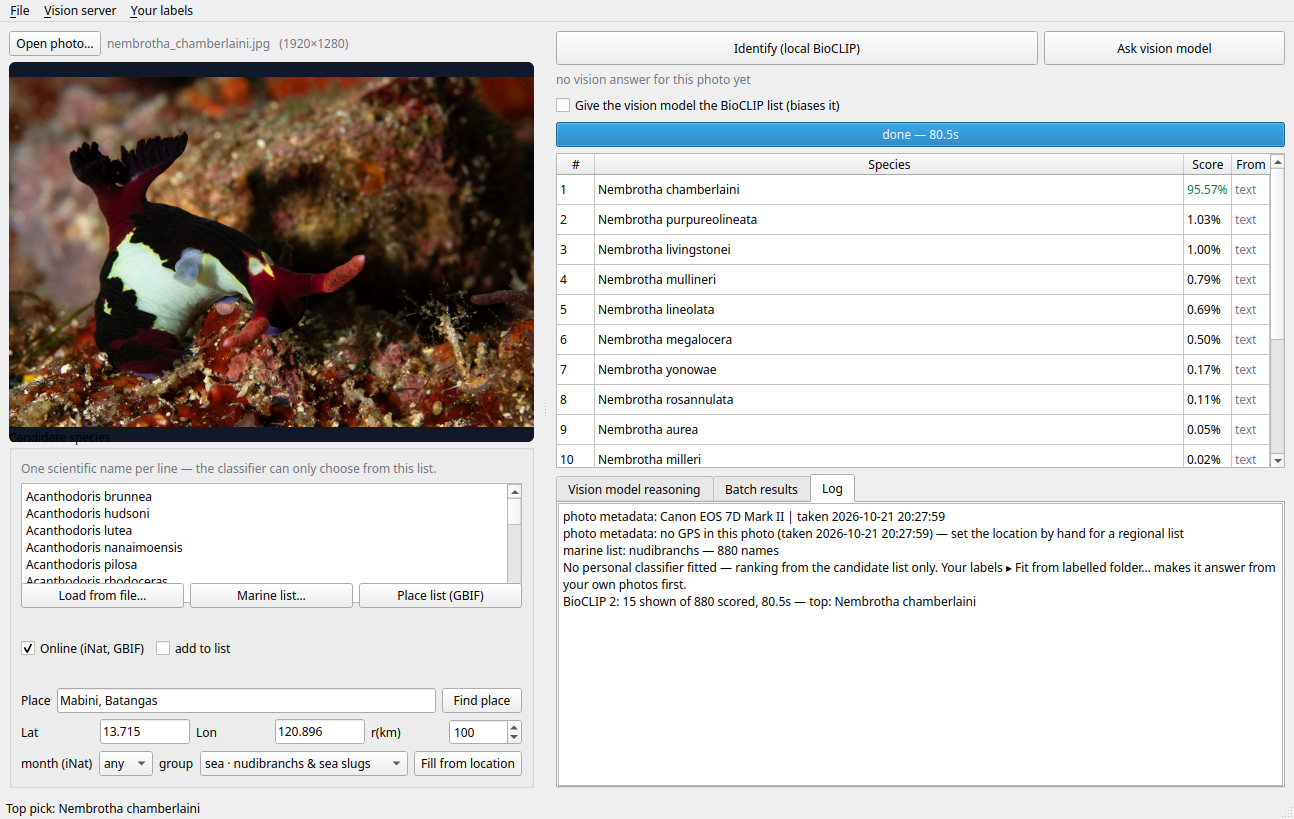
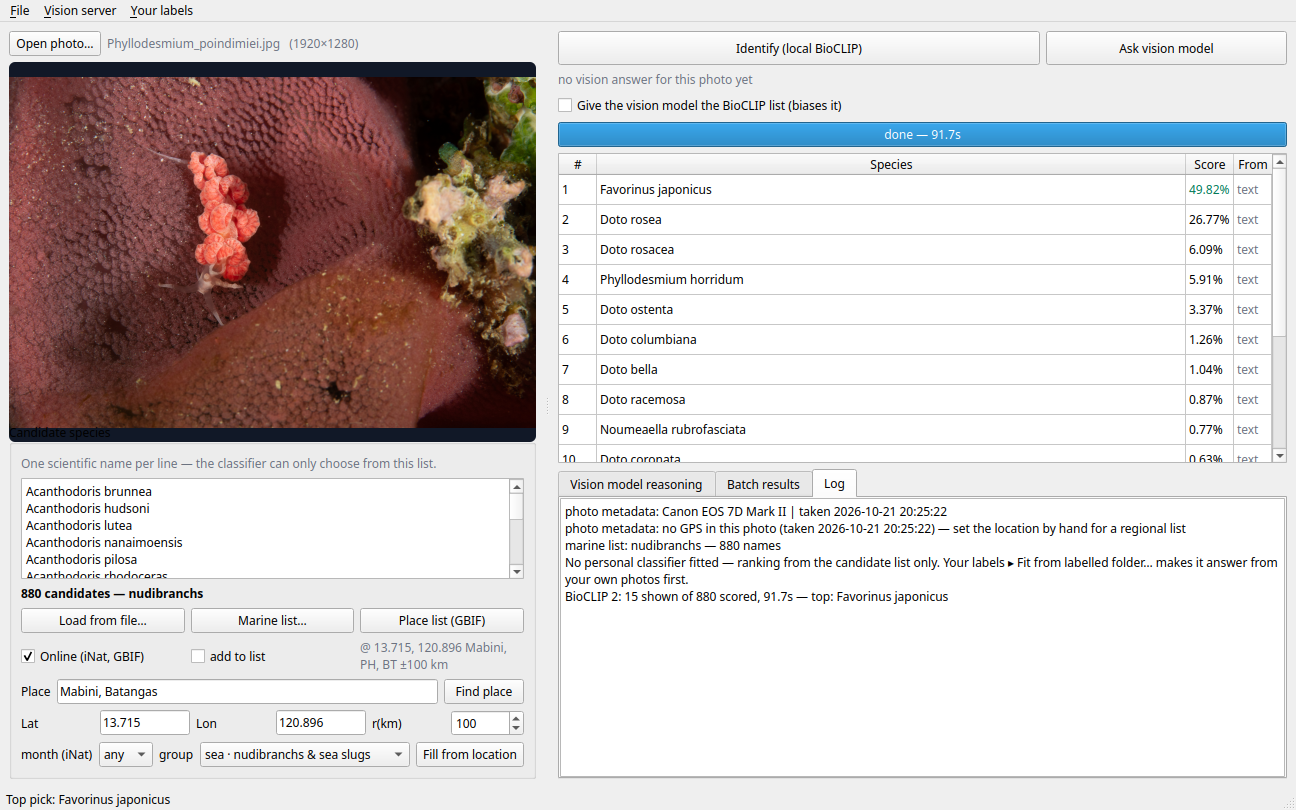
the candidate count is visible again, and says what the list is
Reported as "no info on how many candidates there are" after a GBIF fetch. The label held the
right string the whole time: geometry showed '828 candidates' at width 0. Two causes, both mine:

  - the horizontal size policy was Ignored (set to stop a 695-character group description
    widening the window). An Ignored label claims zero width, and the stretch after it took
    all of the row, so the count was in the layout and invisible on screen. Now Preferred,
    with the text still capped at 60 + 70 characters, so it keeps its hint when there is room
    and shrinks instead of widening;
  - where_lbl had the same policy and the same zero width - that is the line showing WHICH
    coordinates the next lookup will use, the one that catches a place name resolving to the
    wrong Anilao. Same fix. tick_status and reason_for_lbl switched too, for consistency.

The count also moved onto its own full-width row under the list box: squeezed into the online
row it wrapped mid-phrase ("828 candidates —" / "Nudibranchia"). And it now reports provenance -
"880 candidates — Nudibranchia  ·  GBIF, 100 km" - recorded at _set_candidates(), the one funnel
every source passes through, because a bare number cannot tell you whether that is everything
recorded within 100 km or only one group's slice of it.

One more casualty of the same edit: the candidate box lost its cl.addWidget() call while the
[…]

Changed region(s): [[0.0, 0.0, 0.9892, 1.0], [0.8655, 0.0309, 0.9583, 0.0926]]

diff --git a/species_gui.py b/species_gui.py
@@ -1088,13 +1088,39 @@ class MainWindow(QMainWindow):
         # seeded a hardcoded European starter list here, so a dive photo was scored
         # against ten European garden insects and ten European birds without the
         # user ever choosing that. An empty box with a clear hint is honest.
+        # A minimum height, because the left column is tight: adding the count row below it
+        # squeezed this box to zero pixels and the list simply vanished. Four rows is the
+        # least that still reads as a list you can scroll.
+        self.cand_edit.setMinimumHeight(88)
         self.cand_edit.setPlaceholderText(
             "No species loaded yet. Pick a source:\n"
             "  • Marine list…  — your dive species, narrowed to a group (offline)\n"
             "  • Fill from location — what is recorded near a place + group + month\n"
             "  • Load from file… — your own list, one scientific name per line\n"
             "Or just type names here, one per line.")
+        # How many candidates are loaded, shown BEFORE running BioCLIP: the classifier
+        # scores against exactly this many names, and the count is the cheapest way to
+        # notice that a list is empty, tiny, or unexpectedly huge.
+        self.cand_count = QLabel()
+        # This label must never widen the window — a long group description (a 24-order
+        # union rendered in full was 695 characters) once pushed the window past the
+        # screen edge. Two guards, and the reason both are needed:
+        #   * the TEXT is capped (60 chars for the group part, in _update_cand_count);
+        #   * the POLICY is Preferred, not Ignored. Ignored looked safe but made the
+        #     label claim zero width, and the stretch that follows took the rest, so the
+        #     count rendered at 0 px — present in the layout, invisible on screen. A
+        #     Preferred label keeps its sizeHint when there is room and shrinks instead
+        #     of forcing the row wider when there is not.
+        self.cand_count.setWordWrap(True)
+        self.cand_count.setMinimumWidth(0)
+        self.cand_count.setSizePolicy(QSizePolicy.Policy.Preferred,
+                                      QSizePolicy.Policy.Preferred)
+        self.cand_count.setToolTip(
+            "Names the classifier will score against. More names encode slower and "
+            "blunt the top pick's confidence, so a regional or group-narrowed list "
+            "usually beats a global one.")
         cl.addWidget(self.cand_edit)
+        cl.addLayout(self._count_row())
         r2 = QHBoxLayout()
         b = QPushButton("Load from file…"); b.clicked.connect(self.load_candidates_file)
         r2.addWidget(b)
@@ -1116,7 +1142,6 @@ class MainWindow(QMainWindow):
             "Needs the internet; no account or API key.")
         r2.addWidget(self.gbif_btn)
         cl.addLayout(r2)
-
         # Second row for the online switch and the live count. Keeping them in r2 made
         # that row's minimum width the SUM of six widgets, which is what pushed the
         # window past the screen edge.
@@ -1146,38 +1171,20 @@ class MainWindow(QMainWindow):
         # permanently makes a wrong location visible BEFORE the query runs.
         self.where_lbl = QLabel()
         self.where_lbl.setStyleSheet("color:#6b7280;")
-        # Ignored width policy: the text must never set the layout's minimum width.
-        # A QLabel sized to its content re-inflated the window floor the moment the
-        # coordinates got long (1206 -> beyond a 1260 px screen), undoing the layout
-        # work — status text is exactly the kind of thing that should shrink, not push.
-        self.where_lbl.setSizePolicy(QSizePolicy.Policy.Ignored,
-                                     QSizePolicy.Policy.Preferred)
+        # Width policy: Preferred, NOT Ignored. Ignored was tried first and claimed zero
+        # width, so with a stretch in the row this label — the only thing showing WHICH
+        # coordinates a lookup will use — rendered at 0 px, present but invisible. Preferred
+        # keeps its hint when there is room and shrinks (word wrapped) when there is not, so
+        # it can neither disappear nor inflate the window floor.
         self.where_lbl.setMinimumWidth(0)
+        self.where_lbl.setWordWrap(True)
+        self.where_lbl.setSizePolicy(QSizePolicy.Policy.Preferred,
+                                     QSizePolicy.Policy.Preferred)
         self.where_lbl.setToolTip(
             "Where the next regional lookup will search. The coordinates are the ground "
             "truth — a place NAME can match a same-named town far away (\"Anilao\" "
             "matches a town in Iloilo, ~1,000 km from the Batangas dive area).")
         r2b.addWidget(self.where_lbl)
-        r2b.addStretch(1)
-        # How many candidates are loaded, shown BEFORE running BioCLIP: the classifier
-        # scores against exactly this many names, and the count is the cheapest way to
-        # notice that a list is empty, tiny, or unexpectedly huge.
-        self.cand_count = QLabel()
-        self.cand_count.setStyleSheet("font-weight:600;")
-        # This label must NEVER be able to widen the window. A long group description
-        # (a 24-order union rendered in full is 695 characters) inflated the row, the
-        # left pane and the whole window past the screen edge. Wrapping plus an Ignored
-        # horizontal policy means the layout gives it whatever width is available and it
-        # wraps instead of demanding more; the full text stays in the tooltip.
-        self.cand_count.setWordWrap(True)
-        self.cand_count.setMinimumWidth(0)
-        self.cand_count.setSizePolicy(QSizePolicy.Policy.Ignored,
-                                      QSizePolicy.Policy.Preferred)
-        self.cand_count.setToolTip(
-            "Names the classifier will score against. More names encode slower and "
-            "blunt the top pick's confidence, so a regional or group-narrowed list "
-            "usually beats a global one.")
-        r2b.addWidget(self.cand_count)
         cl.addLayout(r2b)
         # Gated on the online switch: GBIF is a network service like iNaturalist.
         # The marine list and Load from file stay available offline.
@@ -1297,7 +1304,7 @@ class MainWindow(QMainWindow):
         self.reason_for_lbl.setStyleSheet("color:#6b7280;")
         self.reason_for_lbl.setWordWrap(True)
         self.reason_for_lbl.setMinimumWidth(0)
-        self.reason_for_lbl.setSizePolicy(QSizePolicy.Policy.Ignored,
+        self.reason_for_lbl.setSizePolicy(QSizePolicy.Policy.Preferred,
                                           QSizePolicy.Policy.Preferred)
         self.ask_btn.clicked.connect(self.ask_vision)
         r.addWidget(self.ask_btn, 1)
@@ -1392,7 +1399,7 @@ class MainWindow(QMainWindow):
         self.tick_status.setStyleSheet("color:#6b7280;")
         self.tick_status.setWordWrap(True)
         self.tick_status.setMinimumWidth(0)
-        self.tick_status.setSizePolicy(QSizePolicy.Policy.Ignored,
+        self.tick_status.setSizePolicy(QSizePolicy.Policy.Preferred,
                                        QSizePolicy.Policy.Preferred)
         bl.addWidget(self.tick_status)
         br = QHBoxLayout()
@@ -1715,6 +1722,20 @@ class MainWindow(QMainWindow):
         self.where_lbl.setText(f"@ {lat:.3f}, {lon:.3f}{place} ±{self.radius.value()} km")
         self.where_lbl.setStyleSheet("color:#6b7280;")
 
+    def _count_row(self):
+        """The candidate-count line, on its own full-width row under the list box.
+
+        Own row, not a share of the crowded online row: squeezed in there it wrapped
+        mid-phrase ("828 candidates —" / "Nudibranchia"), and it is the one line you check
+        before trusting a run.
+        """
+        r = QHBoxLayout()
+        r.setContentsMargins(0, 0, 0, 0)
+        # No trailing stretch: the label is alone on the row, and a stretch took the width
+        # that word wrap then needed, breaking "…· GBIF, 100 km" onto a second line.
+        r.addWidget(self.cand_count)
+        return r
+
     def _update_cand_count(self) -> None:
         """Show how many candidate names are loaded, before anything is scored.
 
@@ -1733,6 +1754,11 @@ class MainWindow(QMainWindow):
         if len(grp) > 60:
             grp = grp[:57].rstrip() + "…"
         suffix = f" — {grp}" if grp else ""
+        src = str(getattr(self, "cand_source", "") or "")
+        if len(src) > 70:
+            src = src[:67].rstrip() + "…"
+        if src:
+            suffix += f"  ·  {src}"
         if n == 0:
             self.cand_count.setText("0 candidates")
             self.cand_count.setStyleSheet("color:#b91c1c; font-weight:600;")
@@ -1882,6 +1908,11 @@ class MainWindow(QMainWindow):
         monotonically (541 nudibranchs -> 1,211 mixed) while the label claimed the new
         group — which is what made it look broken.
         """
+        # Provenance for the count line: WHAT list this is, recorded at the one place every
+        # source funnels through. "828 candidates" alone cannot tell you whether that is
+        # every species recorded within 100 km or only this group's, and that difference is
+        # exactly what makes a list representative or not.
+        self.cand_source = source or ""
         if replace:
             self.cand_edit.setPlainText("\n".join(names))
             self._update_cand_count()
@@ -1955,6 +1986,28 @@ class MainWindow(QMainWindow):
         replace = not getattr(self, "add_to_list_chk", None) or \
             not self.add_to_list_chk.isChecked()
         kept = self._set_candidates(names, replace=replace, source="GBIF")
+        # The count is only useful for judging representativeness if it says WHAT list it
+        # is: "828 candidates" could be every species ever recorded in 100 km, or the
+        # nudibranchs of that area. Put the group on the label.
+        # Deliberately no place name here: the coordinates line directly beneath already
+        # names it, and repeating it pushed the count onto a second line.
+        self.cand_source = (f"GBIF, {self.radius.value() if hasattr(self, 'radius') else '?'}"
+                            f" km")
+        grp = (self.group.currentData() or {}).get("label") if hasattr(self, "group") else ""
+        if not grp:
+            grp = str(getattr(self, "cand_group", "") or "")
+        if grp:
+            self.cand_group = grp
+            self._update_cand_count()
+        n_loaded = len(self.candidates())
+        self.cand_count.setToolTip(
+            f"{n_loaded:,} names are loaded.\n\n"
+            "Source: GBIF occurrences recorded around the coordinates shown above, "
+            "filtered to the selected group.\n\n"
+            "Fewer names encode faster and keep the top pick's confidence meaningful; a "
+            "very long list costs encoding time without adding per-photo accuracy. If the "
+            "count looks far too small for the place, suspect the SEARCH AREA rather than "
+            "the group — a place name can resolve to a same-named town on another island.")
         hint = ""
         if len(names) < 8:
             hint = ("  — only a few species came back. That usually means the SEARCH "

diff --git a/tests/test_candidate_label_width.py b/tests/test_candidate_label_width.py
@@ -74,8 +74,11 @@ check("window minimum width still unchanged",
 
 print("4. the label wraps and yields its width")
 check("word wrap on", win.cand_count.wordWrap())
-check("horizontal policy Ignored",
-      win.cand_count.sizePolicy().horizontalPolicy() == QSizePolicy.Policy.Ignored,
+# Ignored was the original choice and it was wrong: an Ignored label claims zero width, so
+# with a stretch in the row the count rendered at 0 px — in the layout, invisible on screen.
+# Preferred keeps the hint when there is room and shrinks (word wrapped) when there is not.
+check("horizontal policy is Preferred, not Ignored",
+      win.cand_count.sizePolicy().horizontalPolicy() == QSizePolicy.Policy.Preferred,
       win.cand_count.sizePolicy().horizontalPolicy())
 check("minimum width zero", win.cand_count.minimumWidth() == 0)
 
@@ -85,6 +88,53 @@ win.cand_group = ""
 win._update_cand_count()
 check("empty group adds no suffix", "—" not in win.cand_count.text(),
       win.cand_count.text())
+
+print("6. the count is actually VISIBLE, and says what the list is")
+win.resize(1400, 900)
+win.show()
+app.processEvents()
+win.place_label = "Bitung, ID"
+win.radius.setValue(100)
+# select the group explicitly: the ambient config carries whatever was last used, and a test
+# that depends on it tests the config rather than the label
+for i in range(win.group.count()):
+    if "nudibranch" in win.group.itemText(i).lower():
+        win.group.setCurrentIndex(i)
+        break
+win._on_gbif([f"Nembrotha sp{i}" for i in range(828)],
+             "828 species at Bitung, 100 km")
+app.processEvents()
+txt = win.cand_count.text()
+check("the count is in the text", "828 candidates" in txt, txt)
+check("the group is named", "Nudibranchia" in txt, txt)
+check("the source is named", "GBIF" in txt, txt)
+check("it rendered with a real width", win.cand_count.geometry().width() > 40,
+      win.cand_count.geometry().width())
+check("on a single line, not wrapped mid-phrase",
+      win.cand_count.geometry().height() <= 24, win.cand_count.geometry().height())
+
+print("7. no label anywhere is present but zero-width")
+from PyQt6.QtWidgets import QLabel as _QL
+invisible = [l.text()[:40] for l in win.findChildren(_QL)
+             if l.text() and l.isVisible() and l.geometry().width() == 0]
+check("every visible label with text has width", not invisible, invisible)
+
+print("8. the candidate box cannot be squeezed away")
+check("the text box has a minimum height", win.cand_edit.minimumHeight() >= 80,
+      win.cand_edit.minimumHeight())
+check("and gets a laid-out height", win.cand_edit.geometry().height() >= 80,
+      win.cand_edit.geometry().height())
+check("the count row sits below the box, not on top of it",
+      win.cand_count.geometry().y() >= win.cand_edit.geometry().bottom() - 2,
+      (win.cand_edit.geometry().getRect(), win.cand_count.geometry().getRect()))
+
+print("9. a fill with no source recorded still reads sensibly")
+win.cand_source = ""
+win.cand_group = ""                     # a hand-typed list has no group provenance
+win.cand_edit.setPlainText("\n".join(["Alpha beta", "Gamma delta"]))
+win._update_cand_count()
+check("plain count, no dangling separator",
+      win.cand_count.text() == "2 candidates", win.cand_count.text())
 
 print(f"\n{'ALL PASS' if not fails else str(fails) + ' FAILED'}")
 raise SystemExit(1 if fails else 0)

diff --git a/README.md b/README.md
@@ -621,6 +621,27 @@ when,copy,source,species,confidence,arm,bytes
 `arm` is `your labels` or `text`, and `confidence` is that arm's verdict — so a folder of renamed
 copies can always be audited back to its evidence.
 
+### The candidate count is a line you can actually see
+
+Under the candidate list, on its own full-width line, bold:
+
+```
+880 candidates — Nudibranchia  ·  GBIF, 100 km
+```
+
+Three things, because the number alone cannot tell you whether a list is representative:
+
+- **how many** names BioCLIP will score against (the box is counted the way the classifier
+  counts it — blank lines ignored, so `REPLACE`/merge modes cannot inflate it);
+- **what taxon** they are, when a group narrowed them;
+- **where they came from**, e.g. `GBIF, 100 km` for a regional list, or nothing for a list you
+  typed or loaded from a file.
+
+The useful judgement: a few hundred names recorded within 100 km of the dive site is a
+representative list; the same few hundred pulled from a worldwide facet is not. If the count
+looks far too small for the place, suspect the **search area** before the group — a place name
+can resolve to a same-named town on another island, which is exactly what happened with Anilao.
+
 ### In batch, tick the ones that are right
 
 A batch mixes photographs that are correctly identified with photographs that are plainly
